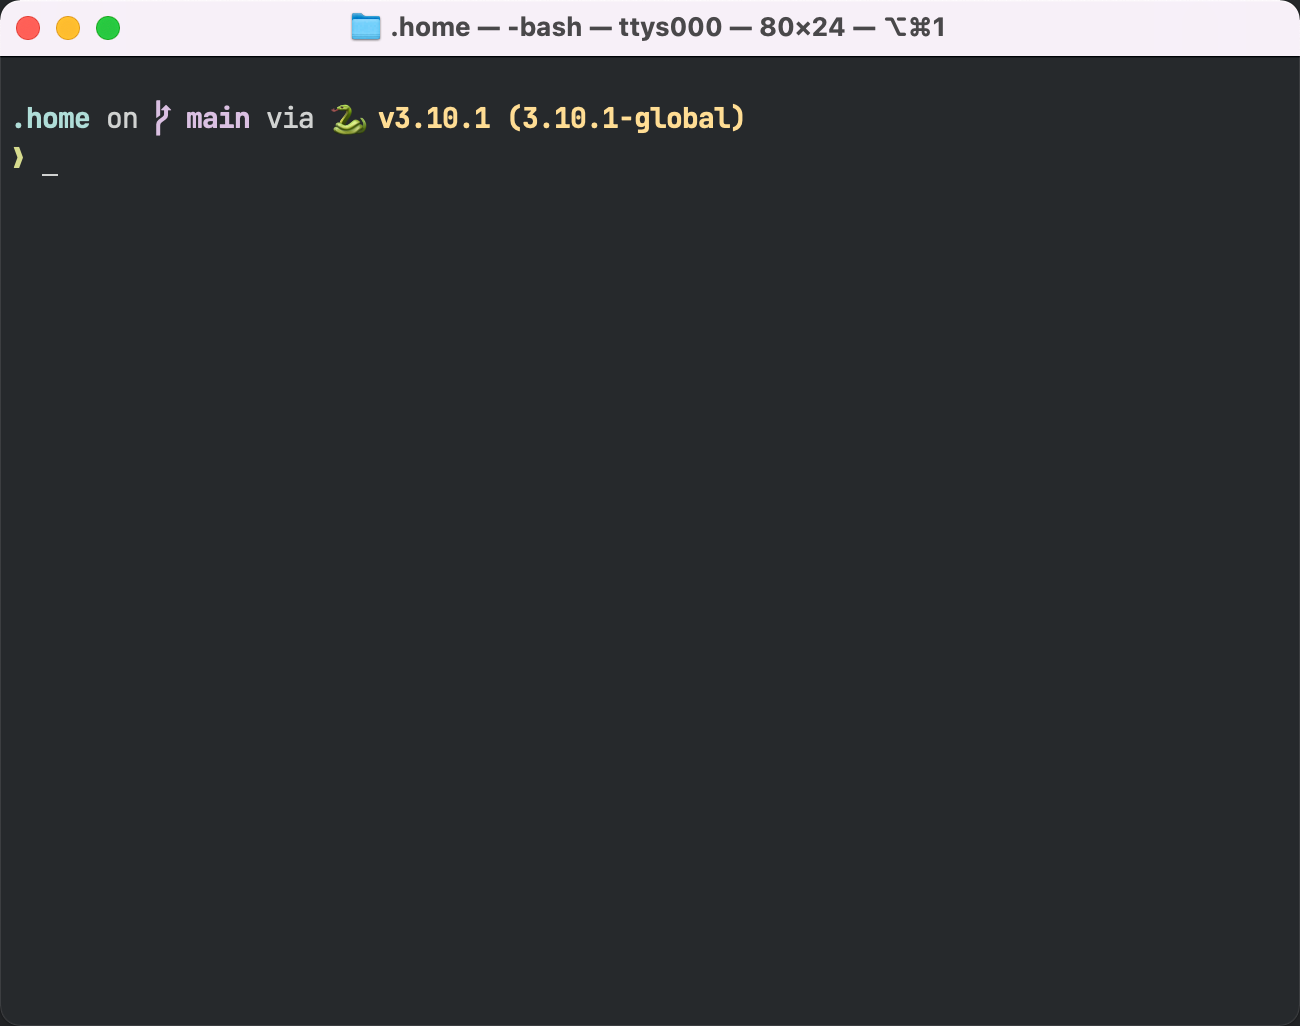
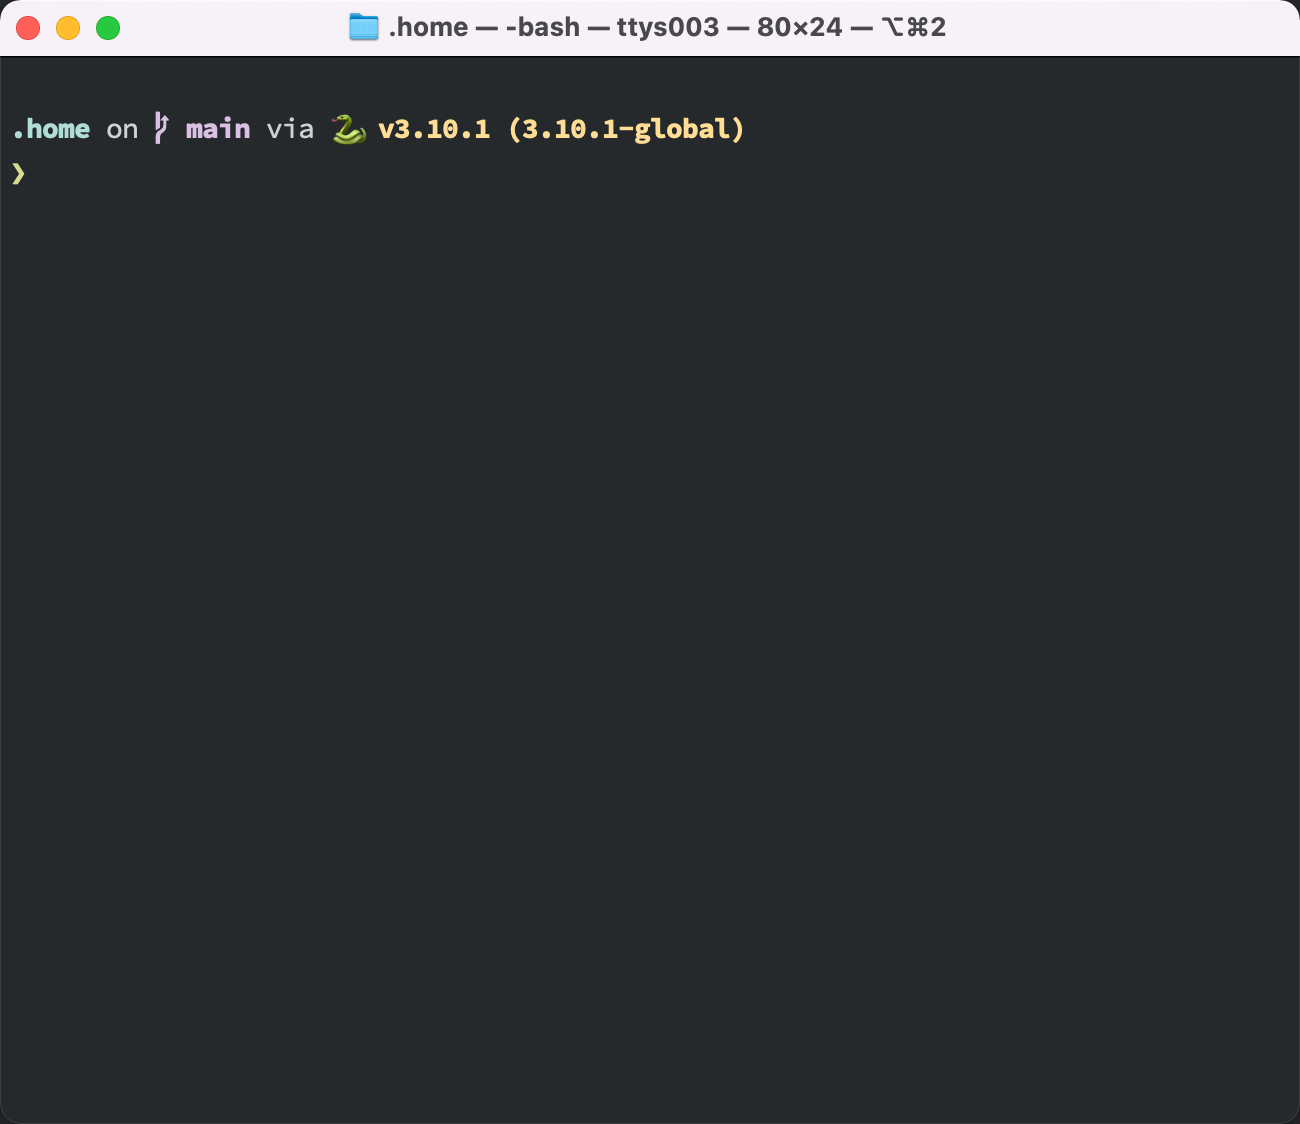
Change font to Hasklug Nerd Font

Changed region(s): [[0.0, 0.0, 1.0, 0.0624], [0.2154, 0.0936, 0.5846, 0.1559], [0.0308, 0.0936, 0.1846, 0.1248]]

diff --git a/README.md b/README.md
@@ -215,15 +215,15 @@ Add your login shell to `/etc/shells`:
    
 2. To get started [configuring starship](https://starship.rs/config/#prompt), change the following file: `~/.config/starship.toml`
 
-3. To use the [JetBrains Mono](https://www.jetbrains.com/lp/mono/) font shown in the photo above, make sure to install the patched version from [Nerd Fonts](https://www.nerdfonts.com/#home) (Starship uses many of the icons in Nerd Fonts version):
+3. To use the [Hasklig](https://github.com/i-tu/Hasklig) font shown in the photo above, make sure to install the patched version from [Nerd Fonts](https://www.nerdfonts.com/#home) (Starship uses many of the icons in Nerd Fonts version):
 
    ```sh
    # via Homebrew for Mac
    brew tap homebrew/cask-fonts
-   brew install --cask font-jetbrains-mono-nerd-font
+   brew install --cask font-hasklug-nerd-font
    
    # there is no MacPorts port for Mac, so install manually from
-   # https://github.com/ryanoasis/nerd-fonts/releases/download/v2.1.0/JetBrainsMono.zip
+   # https://github.com/ryanoasis/nerd-fonts/releases/download/v2.1.0/Hasklig.zip
    ```
    
 4. Make sure to configure the macOS Terminal.app preferences so that shells open with the default login shell:
@@ -249,13 +249,13 @@ Add your login shell to `/etc/shells`:
 
 3. To get started [configuring starship](https://starship.rs/config/#prompt), change the following file: `~/.config/starship.toml`
 
-4. To use the [JetBrains Mono](https://www.jetbrains.com/lp/mono/) font shown in the photo above, make sure to install the patched version from [Nerd Fonts](https://www.nerdfonts.com/#home) (Starship uses many of the icons in Nerd Fonts version):
+4. To use the [Hasklig](https://github.com/i-tu/Hasklig) font shown in the photo above, make sure to install the patched version from [Nerd Fonts](https://www.nerdfonts.com/#home) (Starship uses many of the icons in Nerd Fonts version):
 
    ```sh
-   wget https://github.com/ryanoasis/nerd-fonts/releases/download/v2.1.0/JetBrainsMono.zip
+   wget https://github.com/ryanoasis/nerd-fonts/releases/download/v2.1.0/Hasklig.zip
    mkdir -p ~/.local/share/fonts
-   unzip JetBrainsMono.zip -d .local/share/fonts/
-   cd .local/share/fonts/
+   unzip Hasklig.zip -d ~.local/share/fonts/
+   cd ~/.local/share/fonts/
    rm *Windows*
    cd ~
    fc-cache -fv
